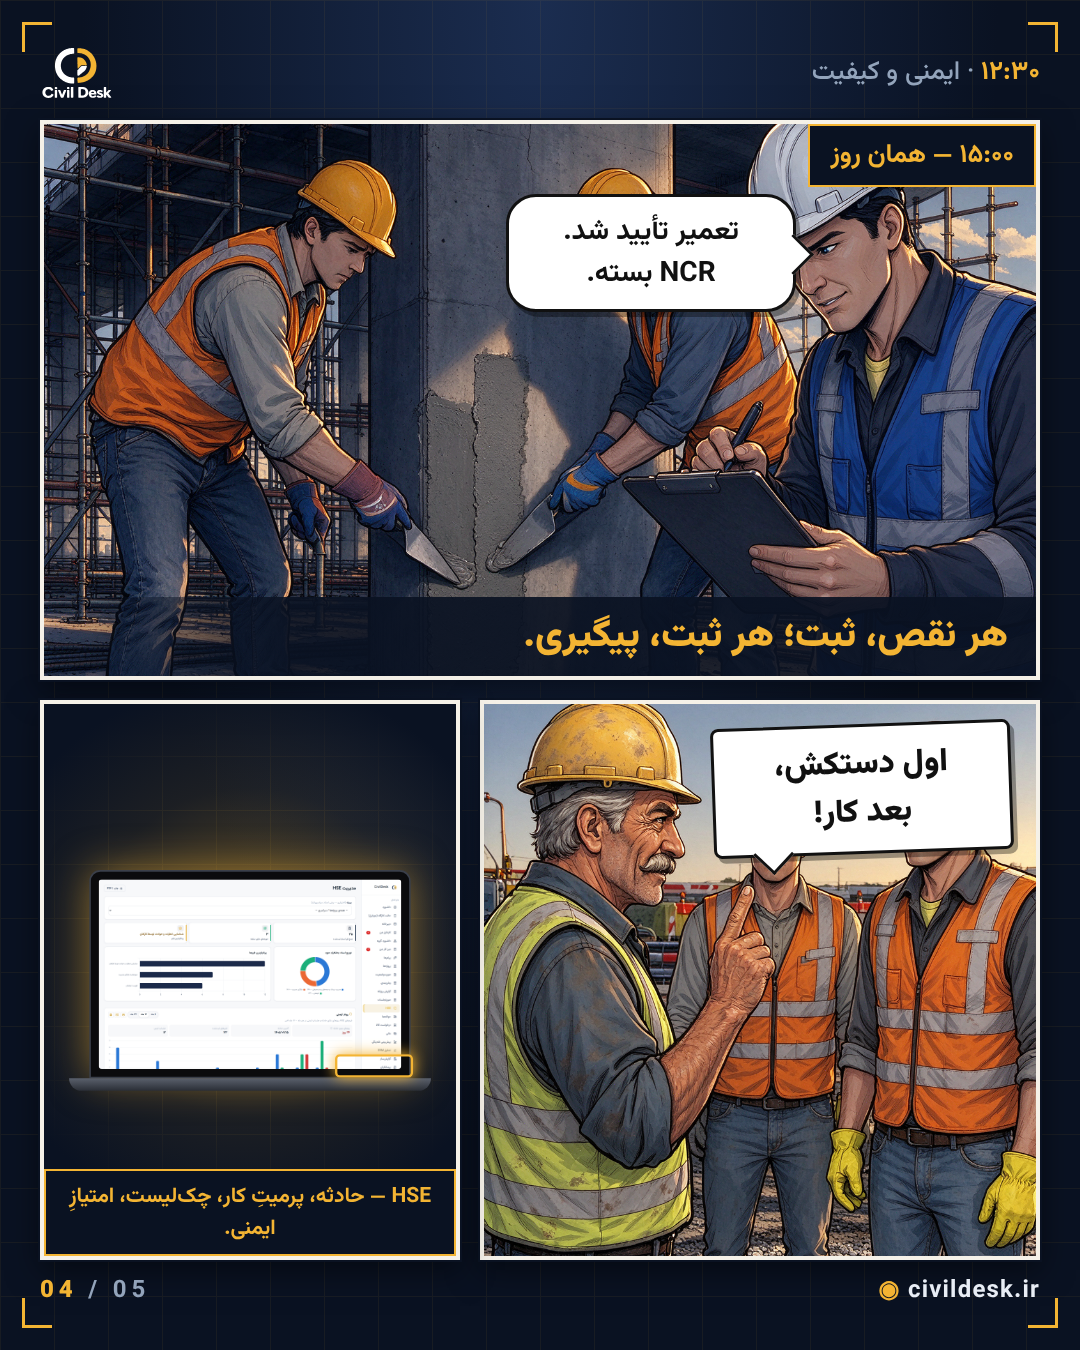
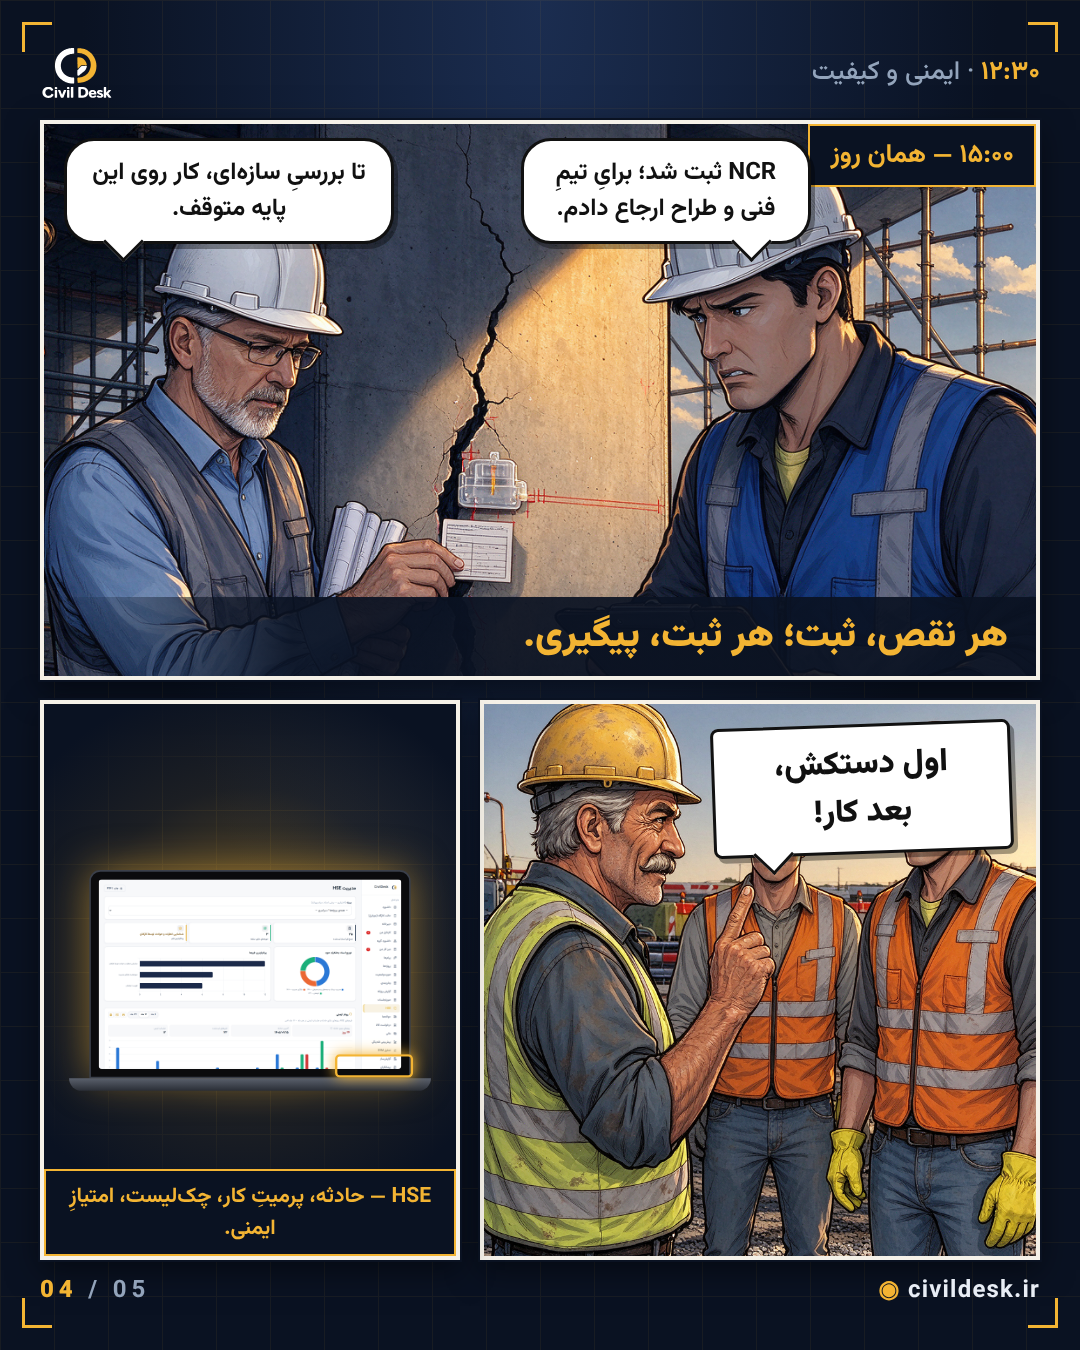
Episode 4: replace unrealistic crack repair with NCR referral to structural design team
A crack in a load-bearing pier is not fixed by surface patching; the result
panel now shows the crack marked and monitored, the area cordoned off, and the
NCR referred to the designer. Caption and script updated to match.

Claude-Session: https://claude.ai/code/session_01AiEVB3QQLP2i3zQnBRmyCY

Changed region(s): [[0.0306, 0.0933, 0.9778, 0.4978]]

diff --git a/comics/ep04-1230/carousel.html b/comics/ep04-1230/carousel.html
@@ -195,9 +195,10 @@
   <div class="head"><div class="ep">۱۲:۳۰ <span>· ایمنی و کیفیت</span></div><img src="logo.svg" alt=""></div>
 
   <div class="panel" style="top:120px; right:40px; width:1000px; height:560px;">
-    <img class="art" src="panels/panel-4-1.png" alt="">
+    <img class="art" src="panels/panel-4-1-v2-c.png" alt="">
     <div class="cap" style="top:0; right:0;">۱۵:۰۰ — همان روز</div>
-    <div class="bal t-r" style="top:70px; right:240px; width:290px; font-size:28px;">تعمیر تأیید شد.<br>NCR بسته.</div>
+    <div class="bal t-br" style="top:14px; right:225px; width:290px; font-size:24px;">NCR ثبت شد؛ برایِ تیمِ فنی و طراح ارجاع دادم.</div>
+    <div class="bal t-bl" style="top:14px; left:20px; width:330px; font-size:24px;">تا بررسیِ سازهای، کار روی این پایه متوقف.</div>
     <div class="slogan" style="bottom:0; right:0; left:0; text-align:right;">هر نقص، ثبت؛ هر ثبت، پیگیری.</div>
   </div>
 

diff --git a/comics/ep04-1230/script.md b/comics/ep04-1230/script.md
@@ -38,8 +38,10 @@
 - **روایت:** «کنترلِ کیفیت — بازرسی، NCR با گردشِ بستن، آزمایشها.»
 
 ## اسلاید ۴ — نتیجه
-**۴-۱ · پهن:** دو کارگر ترک را با ملات تعمیر ترمیم میکنند؛ بهرام روی تبلت تیک میزند.
-- **بهرام:** «تعمیر تأیید شد. NCR بسته.»
+**۴-۱ · پهن:** ترک تعمیر نمیشود: دورش نوار ایمنی کشیده شده، ترک علامتگذاری و گیج پایش ترک نصب شده؛ مهندس طراح سازه با نقشهها عرض ترک را با کارت ترکسنج اندازه میگیرد و بهرام NCR را روی تبلت نشانش میدهد.
+- **بهرام:** «NCR ثبت شد؛ برایِ تیمِ فنی و طراح ارجاع دادم.»
+- **مهندس طراح:** «تا بررسیِ سازهای، کار روی این پایه متوقف.»
+- *(نکتهٔ فنی: ترک در عضو باربر با ترمیم سطحی رفع نمیشود؛ راهحل پس از بررسی سازهای و آزمایشها توسط طراح تعیین میشود.)*
 
 **۴-۲ (پایین-راست):** جلسهٔ ایمنی کوتاه پای کار؛ حسین برای چند کارگر صحبت میکند؛ رضا با دستکش نو.
 - **حسین:** «اول دستکش، بعد کار!»
@@ -70,7 +72,8 @@
 آشناست؟
 
 در CivilDesk نقص و NCR از همان کارگاه و با عکسِ گوشی ثبت میشود؛
-هر NCR گردشِ بستن دارد و تا تعمیر و تأیید، باز میماند.
+هر NCR با عکس و موقعیت به تیمِ فنی و طراح ارجاع میشود
+و تا بررسیِ سازهای، راهحلِ فنی و تأییدِ نهایی، باز میماند.
 حوادث، پرمیتِ کار و چکلیستِ ایمنی هم ثبت میشوند
 و امتیازِ ایمنی و روزهایِ بدونِ حادثه همیشه جلویِ چشم است.
 
@@ -88,7 +91,7 @@
 **نسخهٔ کوتاه برای استوری:**
 ```
 ۱۲:۳۰ — ترک روی پایهٔ پل، دستِ زخمی، چکلیستِ خالی.
-در CivilDesk هر نقص با عکس ثبت و تا بستهشدن پیگیری میشود.
+در CivilDesk هر نقص با عکس ثبت، به تیمِ فنی ارجاع و تا راهحلِ نهایی پیگیری میشود.
 هر نقص، ثبت؛ هر ثبت، پیگیری.
 قسمتِ چهارم را در پیج ببینید 👆
 ```
